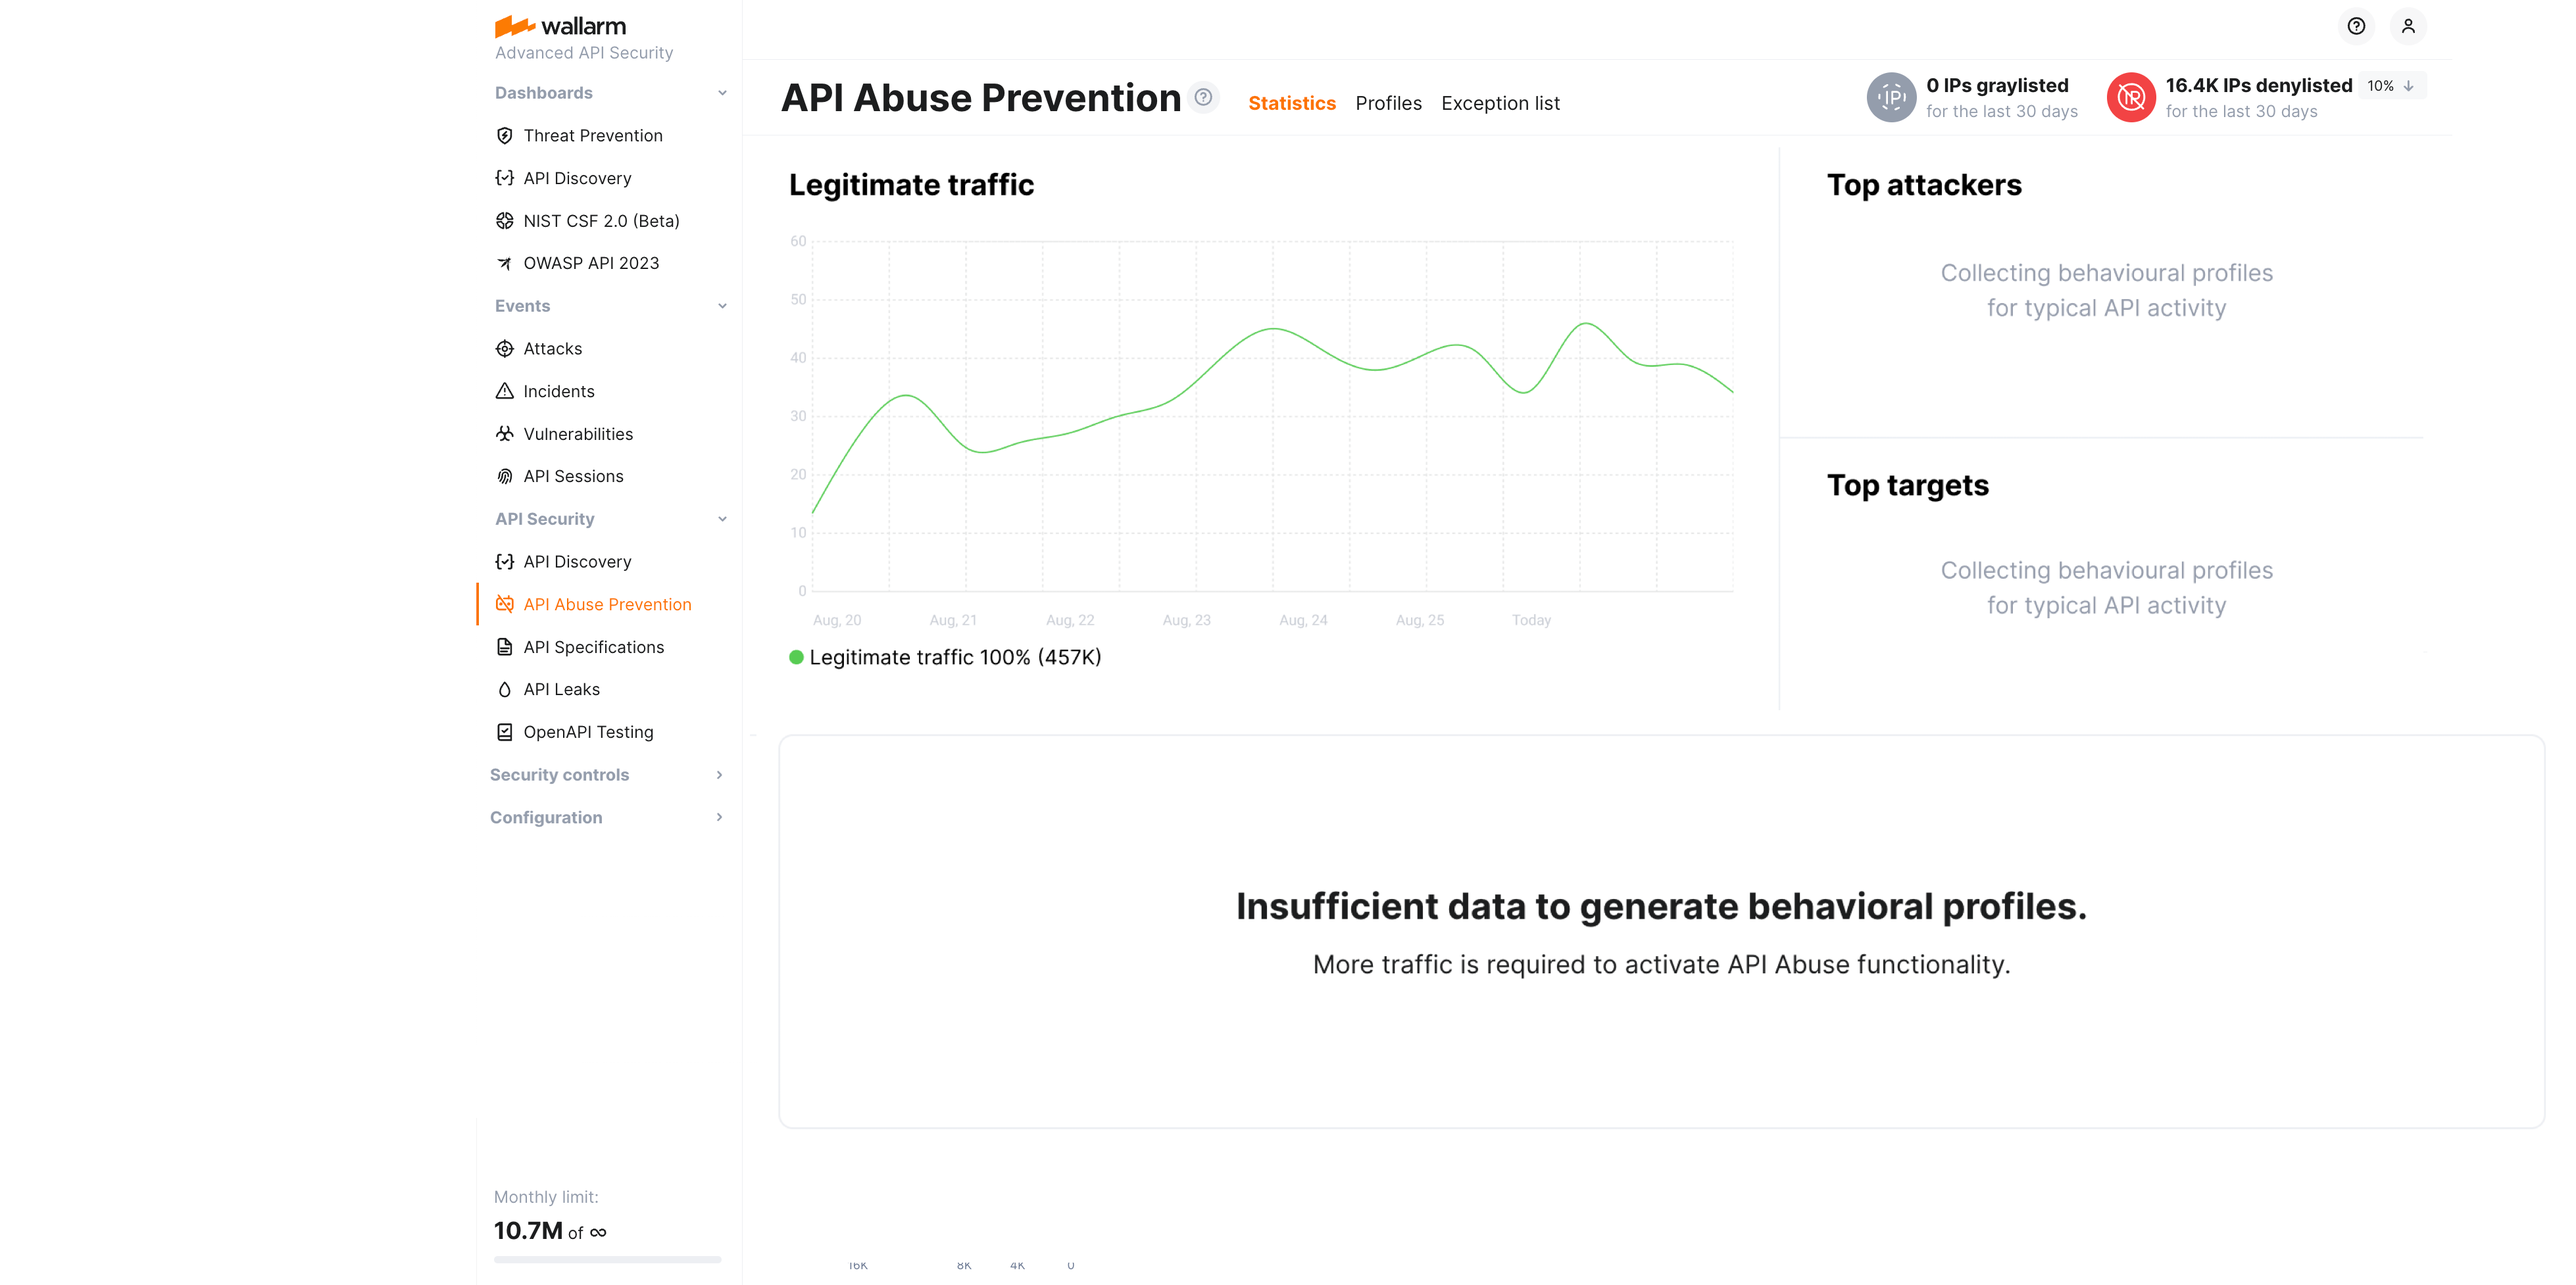
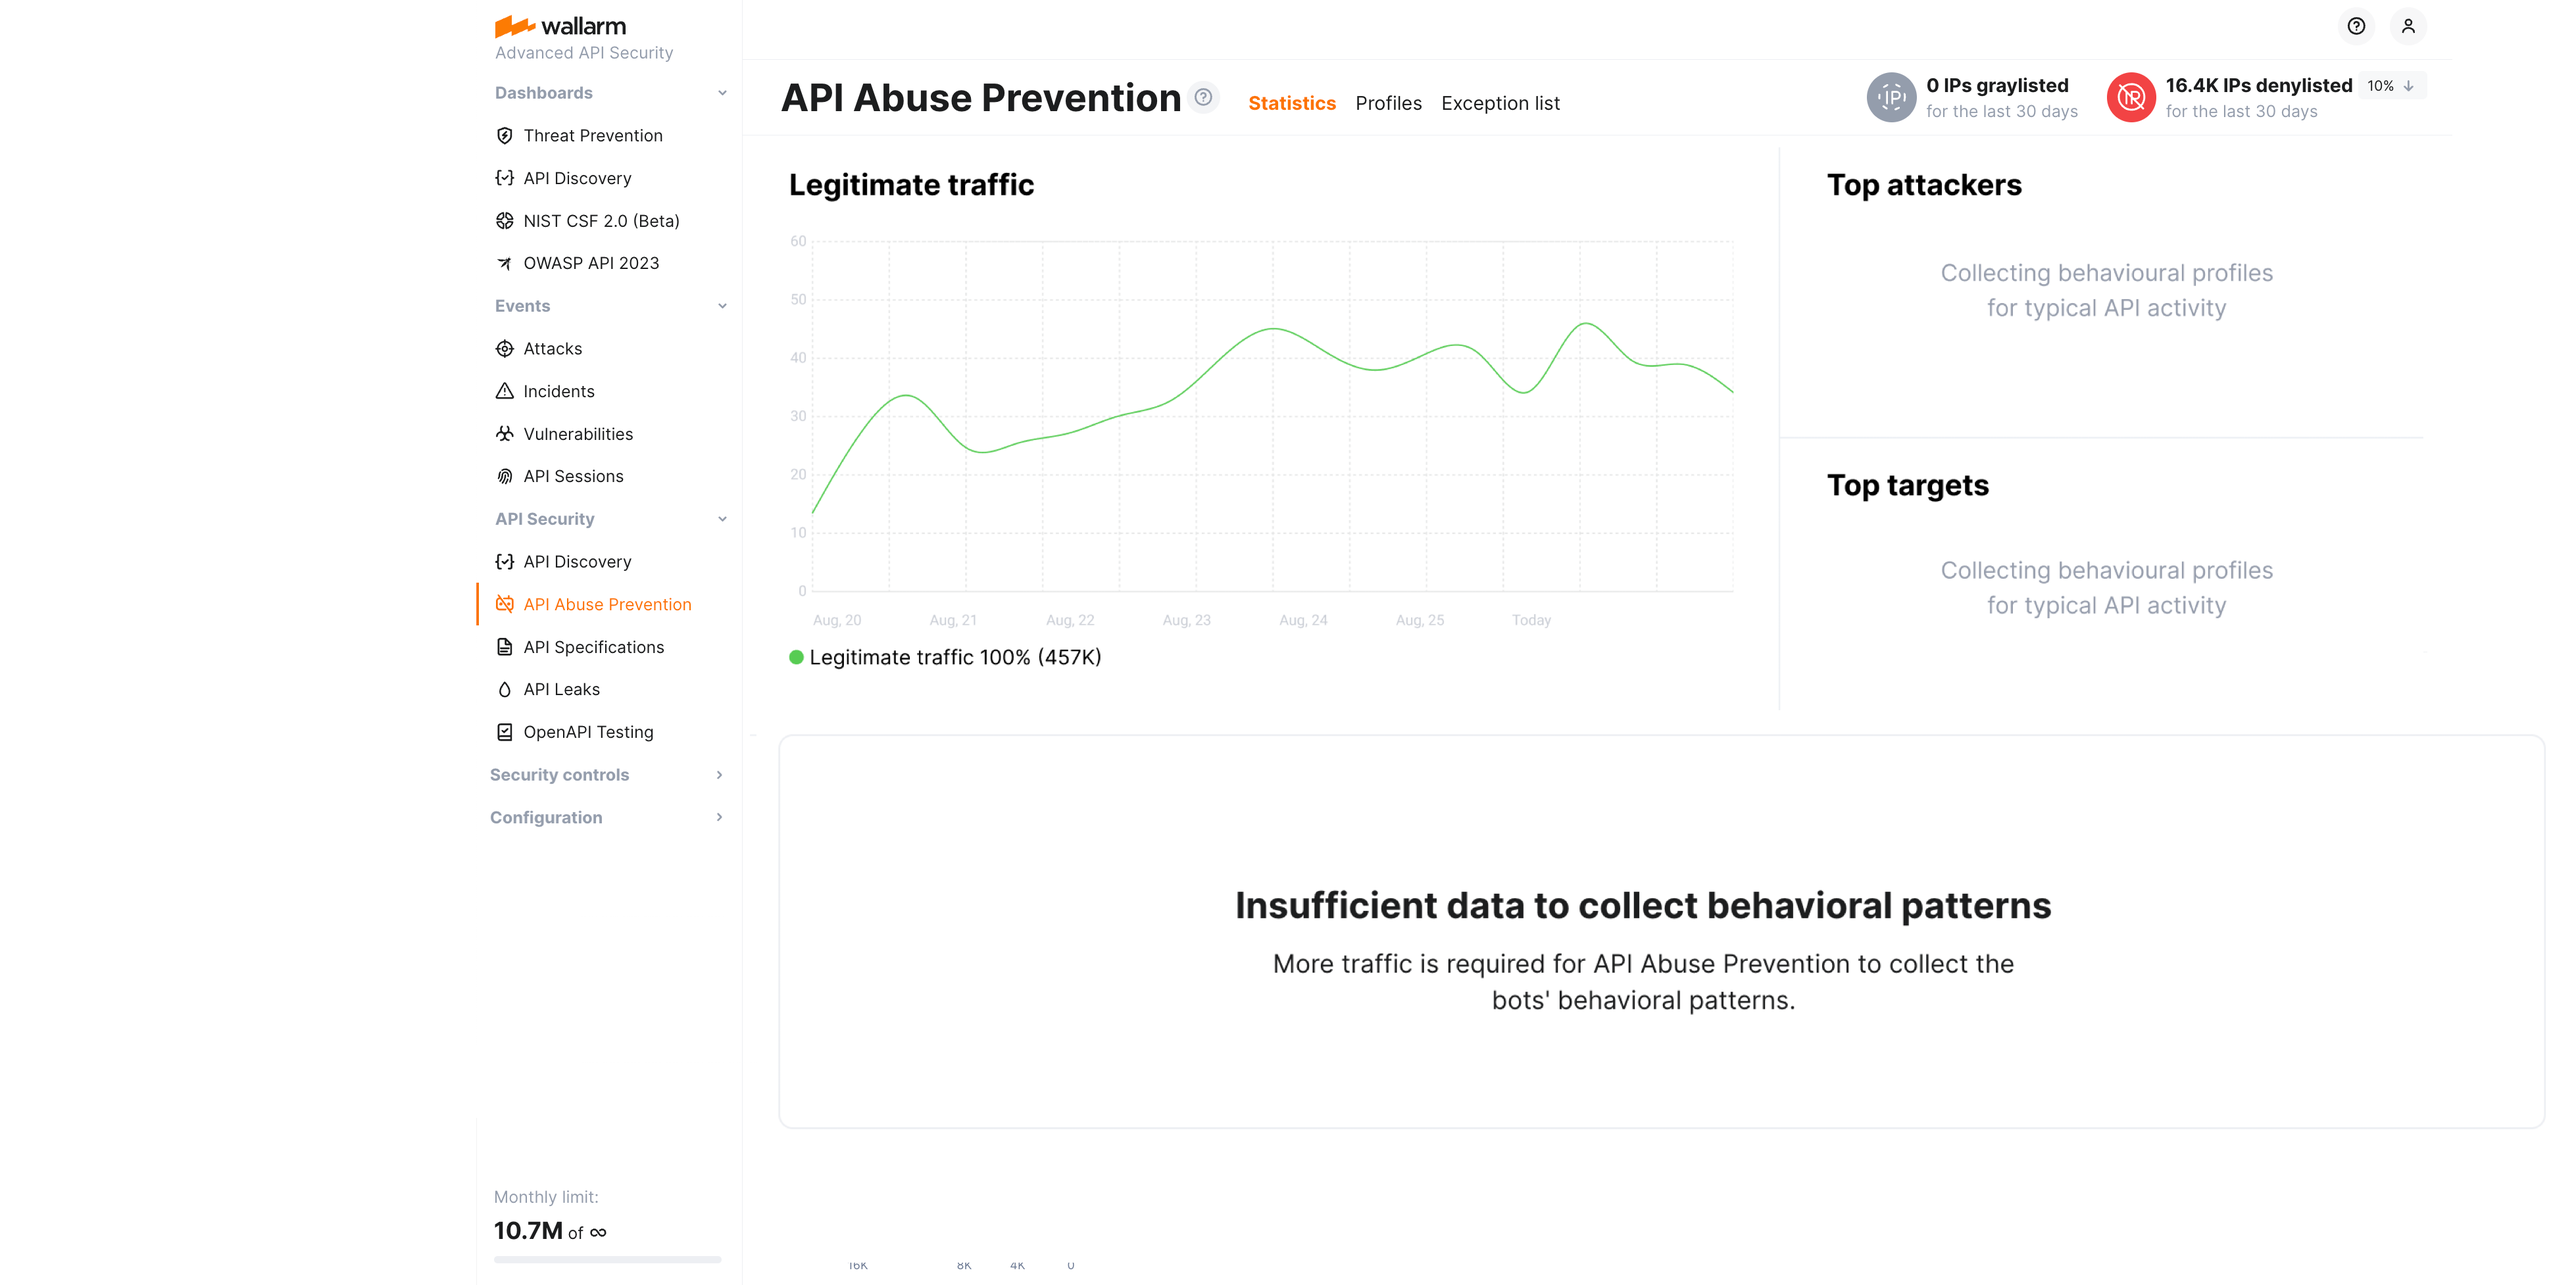
DOCS-2591 Fixes due to comments (2)

Changed region(s): [[0.4673, 0.6868, 0.81, 0.7805]]

diff --git a/docs/latest/api-abuse-prevention/setup.md b/docs/latest/api-abuse-prevention/setup.md
@@ -44,7 +44,7 @@ To create an API abuse profile:
     * **Applications** - analyze requests to all of the domains of the application together.
     * **Domains** - analyze requests to each of the domains of the application separately.
 
-Once created, profiles will protect your selected applications from the malicious bots of selected types. Note that protection and data analysis depend on profile's application traffic presence and amount. Pay your attention to the per-profile status:
+<a name="per-profile-traffic"></a>Once created, profiles will protect your selected applications from the malicious bots of selected types. Note that protection and data analysis depend on profile's application traffic presence and amount. Pay your attention to the per-profile status:
 
 ![API abuse prevention - profiles](../images/about-wallarm-waf/abi-abuse-prevention/api-abuse-profiles-per-profile-status.png)
 

diff --git a/docs/latest/api-abuse-prevention/exploring-bots.md b/docs/latest/api-abuse-prevention/exploring-bots.md
@@ -14,7 +14,7 @@ If no bot activities were detected, the **Legitimate traffic** state is displaye
 
 ![API abuse prevention statistics - no bots detected](../images/about-wallarm-waf/abi-abuse-prevention/api-abuse-prevention-statistics-nobots.png)
 
-Note that bot detection relies on the traffic - if there is no sufficient amount of one, API Abuse Prevention notifies about that with the **Waiting for your data...** message.
+Note that bot detection relies on the traffic - if there is no sufficient amount of one, API Abuse Prevention notifies about that with the **Insufficient data to build statistics** message. You can [check](setup.md#per-profile-traffic) the per-profile traffic on the **Profiles** tab.
 
 ## Attacks
 
